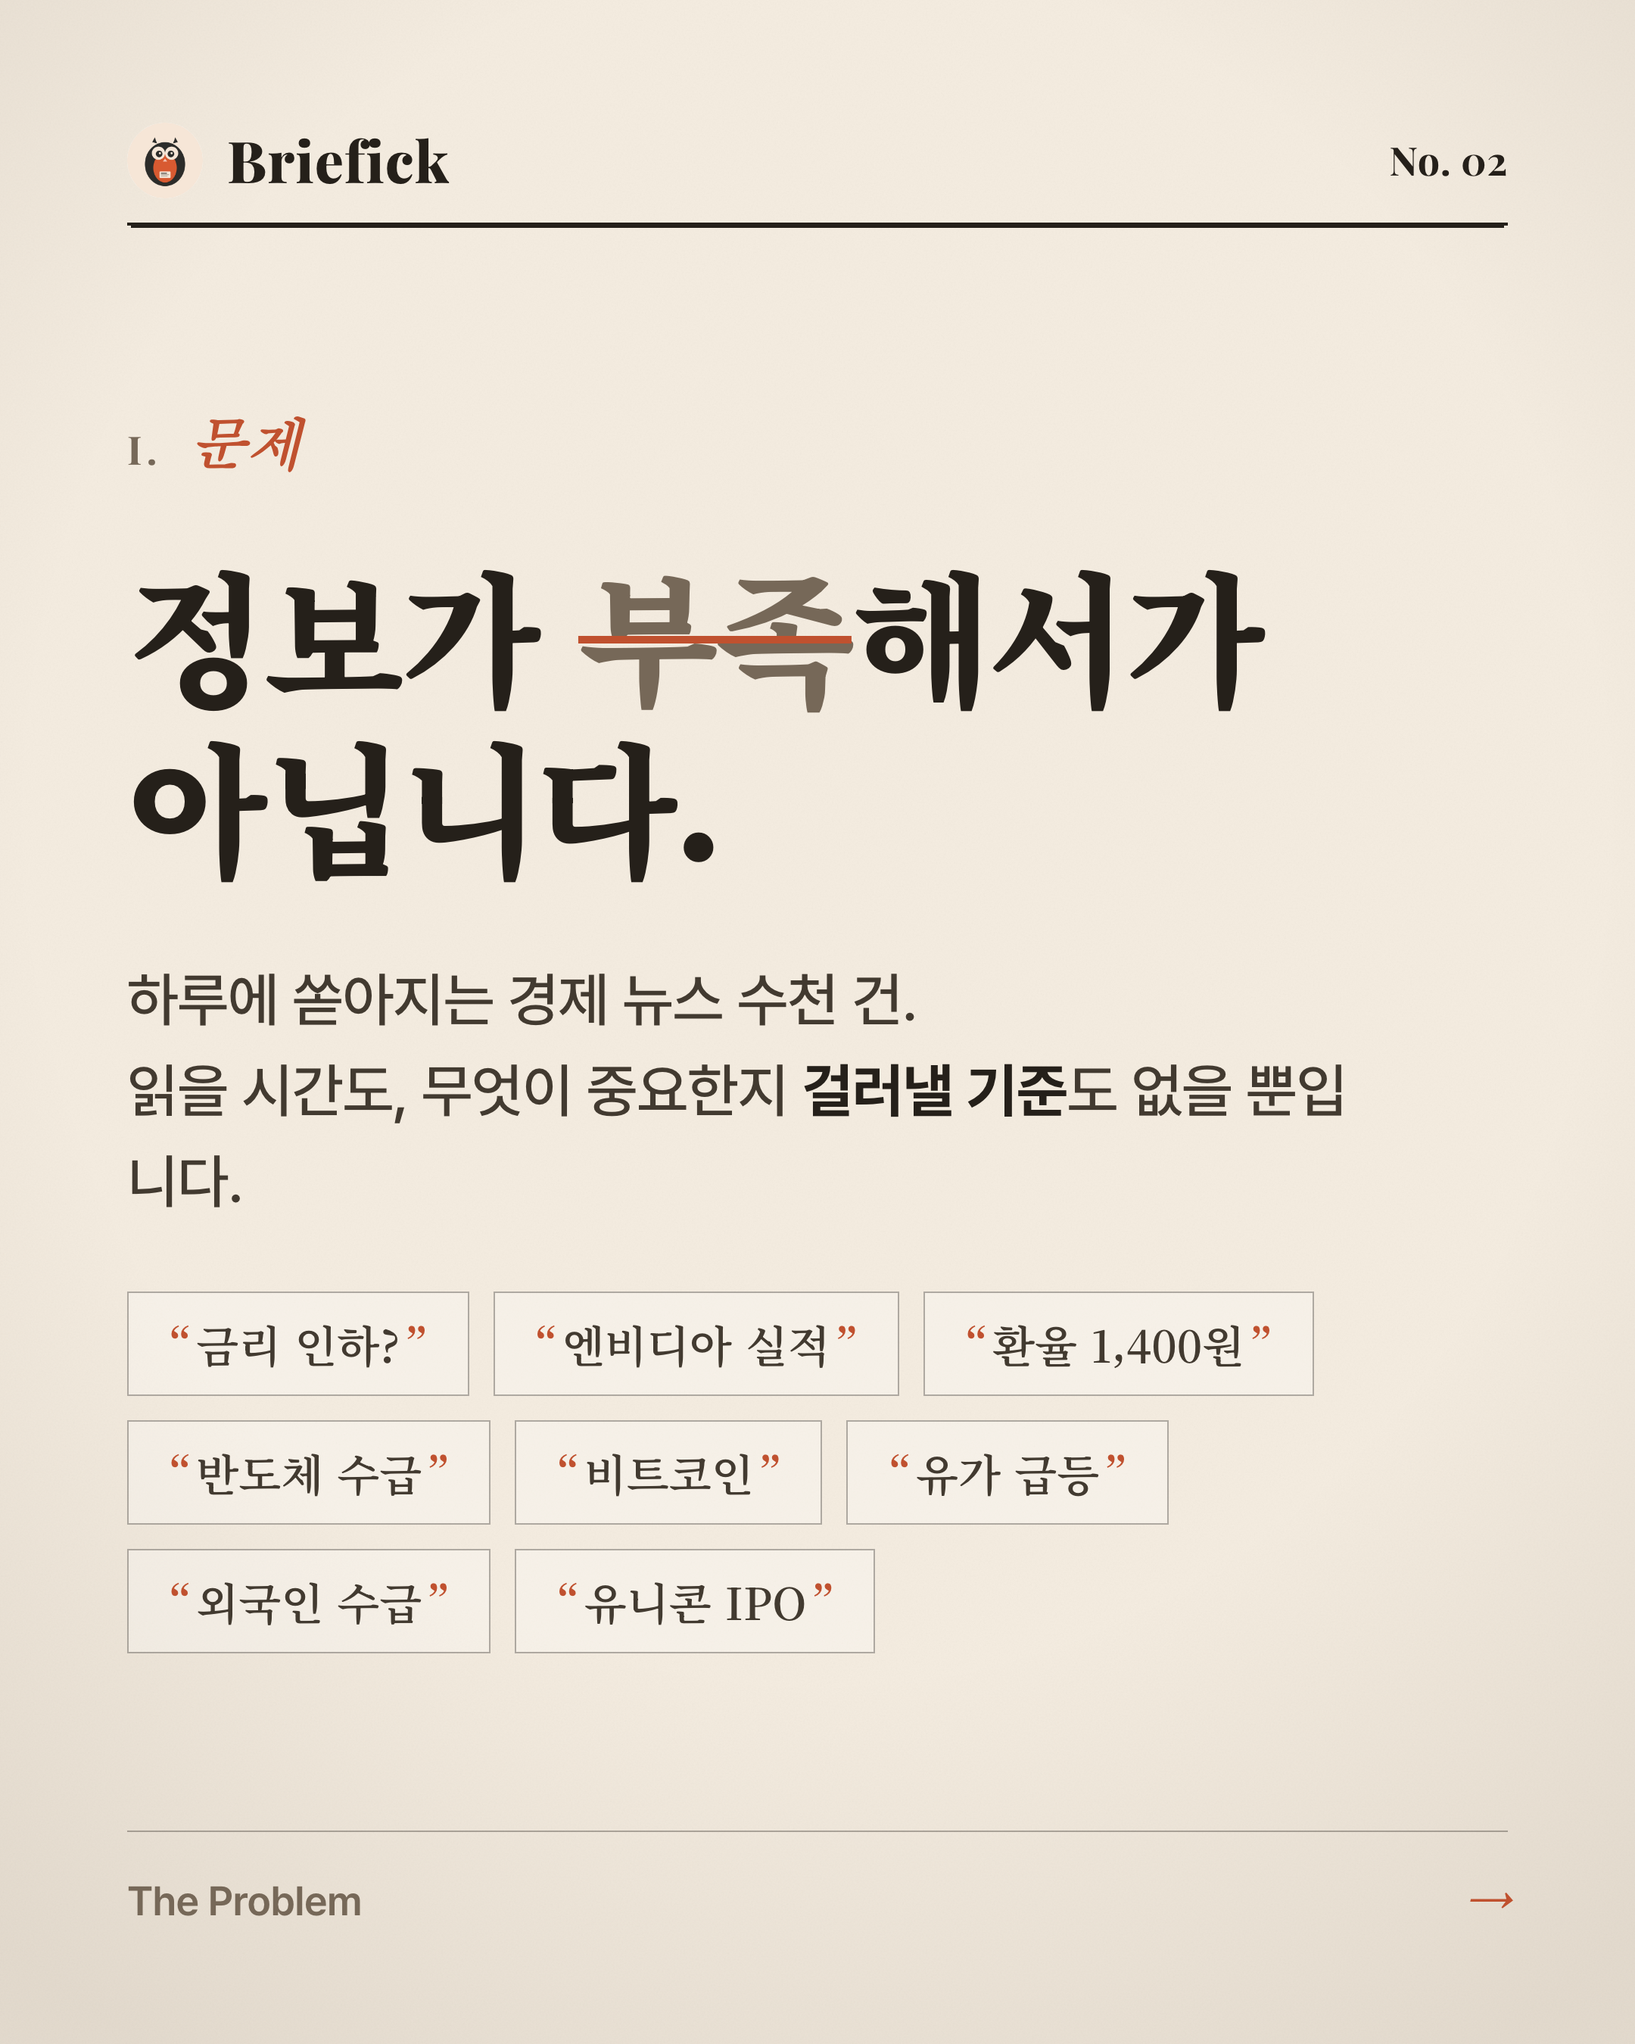
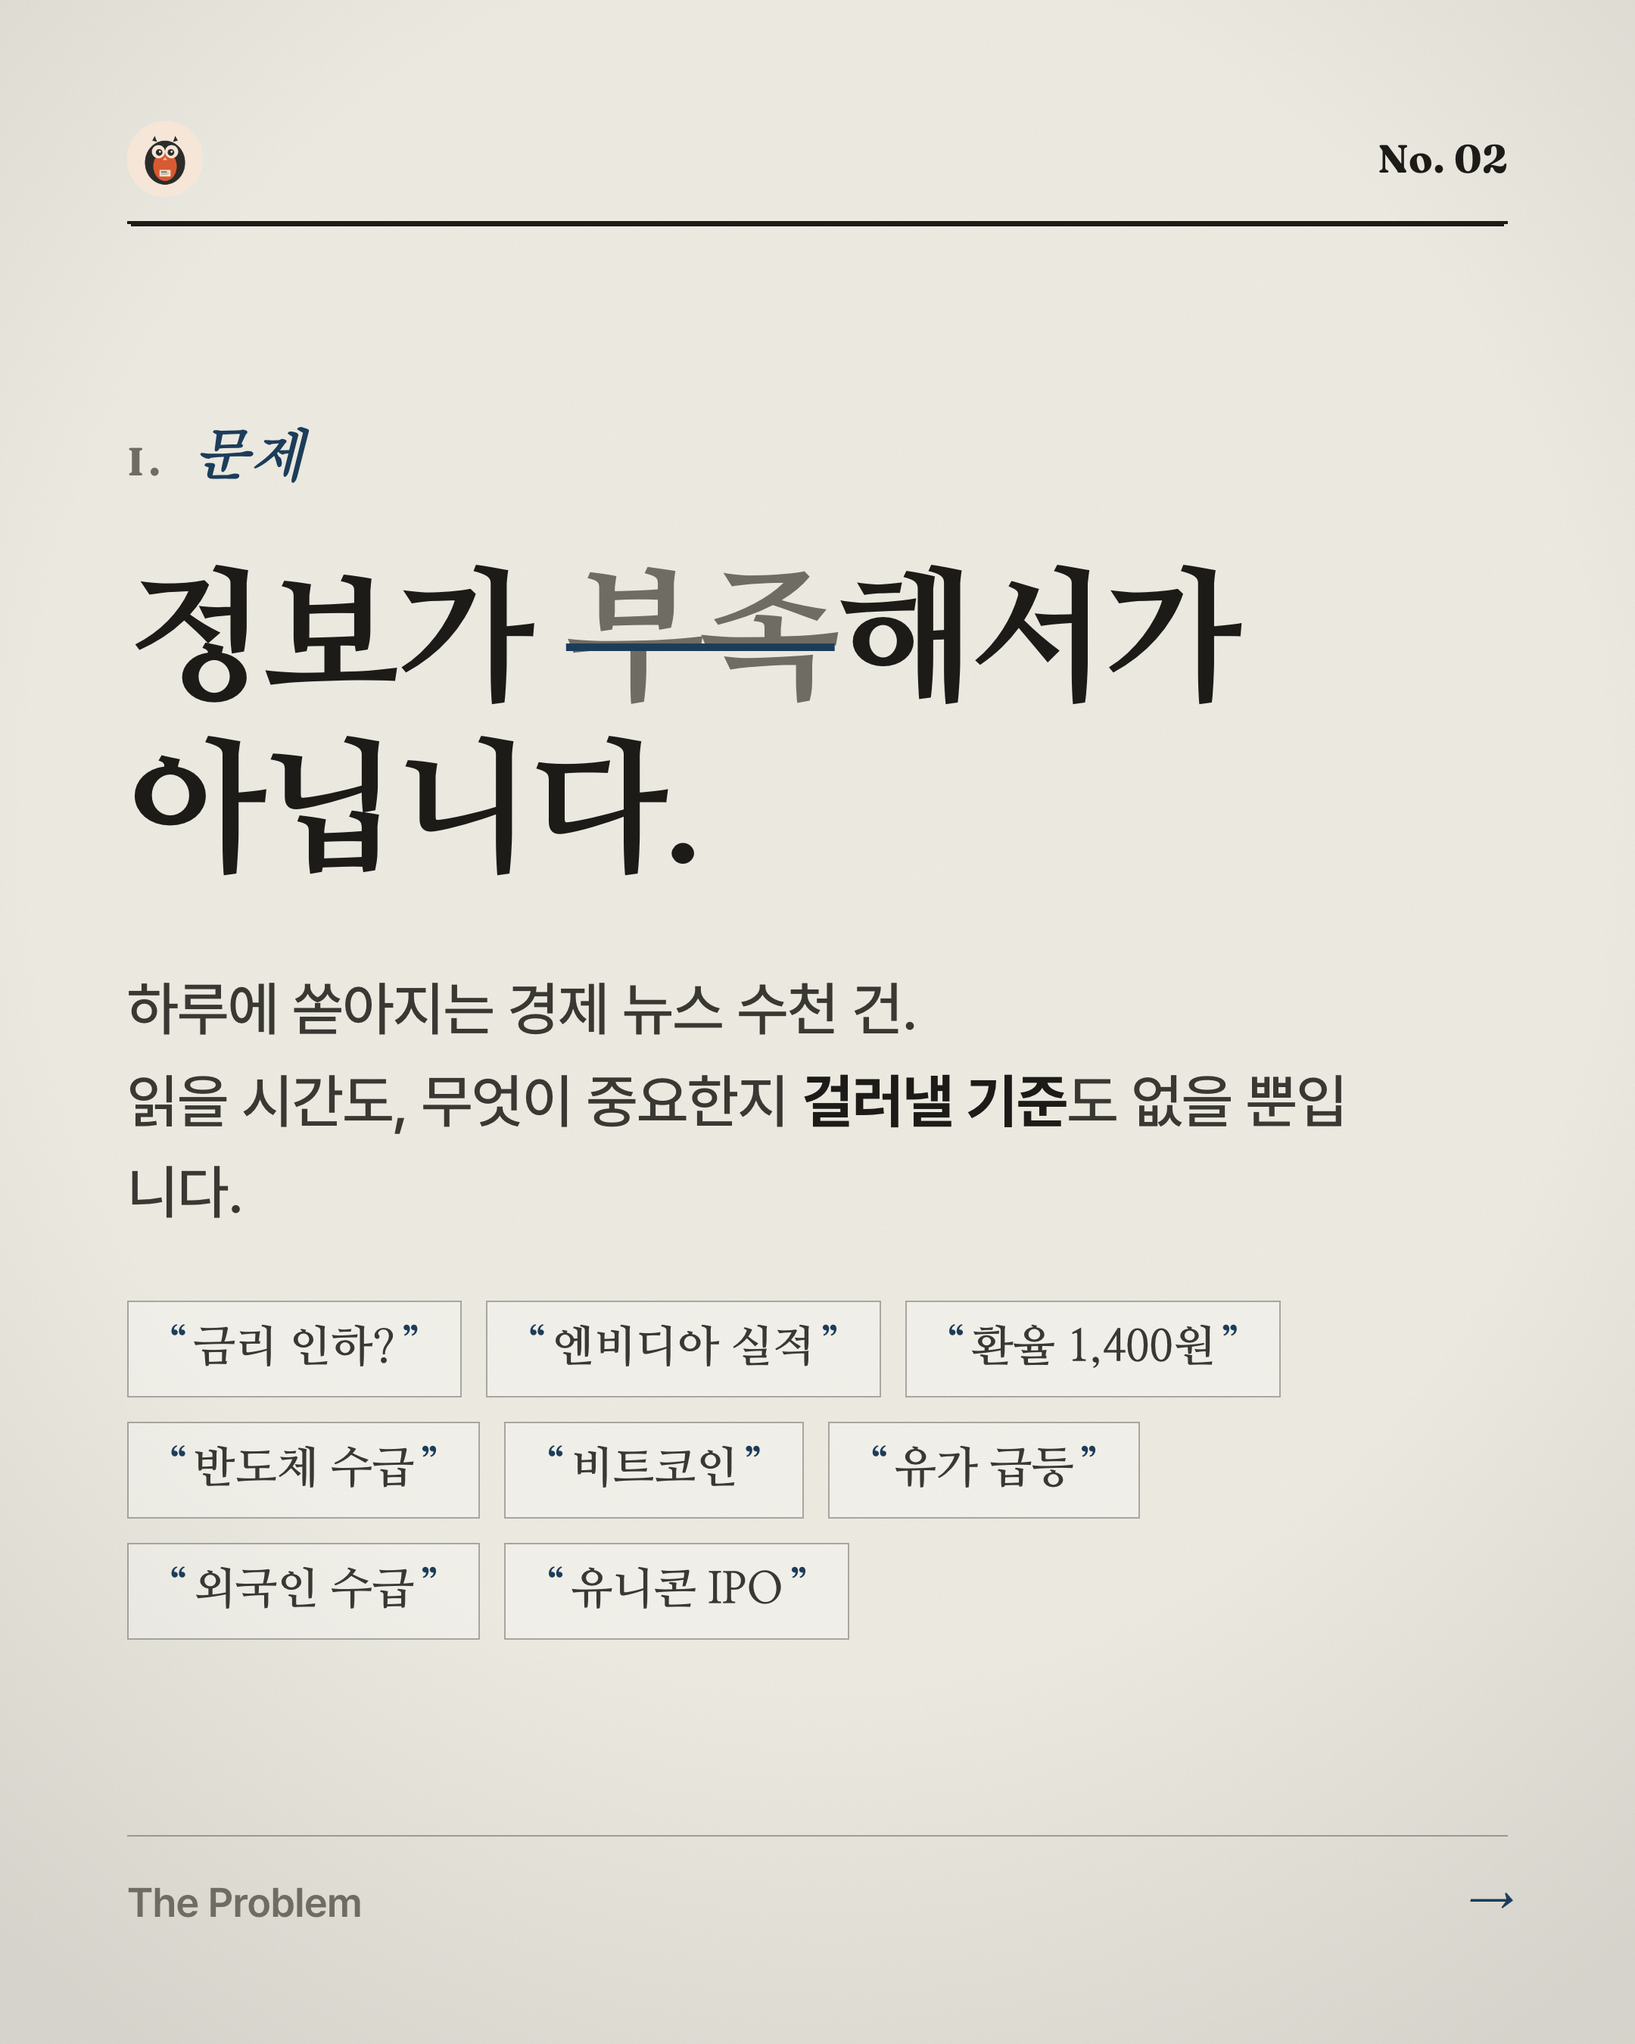
프로모 디자인 리톤 - 네이비+신문미색, 폰트 교체(Nanum Myeongjo/Fraunces), Briefick 워드 최소화
클로드 시그니처 오렌지/베이지 제거. 중간 페이지 워드마크 글자 삭제(올빼미만).

diff --git a/scripts/promo/template.html b/scripts/promo/template.html
@@ -5,19 +5,19 @@
 <title>Briefick Promo Carousel</title>
 <link rel="preconnect" href="https://fonts.googleapis.com">
 <link rel="preconnect" href="https://fonts.gstatic.com" crossorigin>
-<link href="https://fonts.googleapis.com/css2?family=Playfair+Display:ital,wght@0,600;0,700;0,800;0,900;1,500;1,600;1,700&family=Noto+Serif+KR:wght@500;600;700;900&display=swap" rel="stylesheet">
+<link href="https://fonts.googleapis.com/css2?family=Fraunces:ital,wght@0,400..900;1,400..700&family=Nanum+Myeongjo:wght@400;700;800&display=swap" rel="stylesheet">
 <link rel="stylesheet" as="style" crossorigin href="https://cdn.jsdelivr.net/gh/orioncactus/pretendard@v1.3.9/dist/web/static/pretendard.min.css" />
 <style>
   :root {
-    --paper:   #F4ECE0;
-    --paper2:  #EEE2CF;
-    --ink:     #25201A;
-    --ink2:    #423a30;
-    --ink-soft:#766858;
-    --terra:   #C0512F;
-    --terra-d: #9E3F22;
-    --rule:    rgba(37,32,26,0.16);
-    --rule-s:  rgba(37,32,26,0.34);
+    --paper:   #ECEAE1;
+    --paper2:  #E3E0D5;
+    --ink:     #1C1B18;
+    --ink2:    #3a3833;
+    --ink-soft:#6f6c63;
+    --accent:  #1C3D5A;   /* deep navy */
+    --accent-d:#142C42;
+    --rule:    rgba(28,27,24,0.16);
+    --rule-s:  rgba(28,27,24,0.34);
     --kk-up:   #d23b2e;
     --kk-dn:   #1763d6;
   }
@@ -30,8 +30,8 @@
     -webkit-font-smoothing: antialiased;
     -moz-osx-font-smoothing: grayscale;
   }
-  .serif { font-family: 'Noto Serif KR', 'Playfair Display', serif; }
-  .pf    { font-family: 'Playfair Display', serif; }
+  .serif { font-family: 'Nanum Myeongjo', 'Fraunces', serif; }
+  .pf    { font-family: 'Fraunces', serif; }
 
   .slide {
     width: 1080px; height: 1350px;
@@ -48,7 +48,7 @@
   }
   .slide::after {
     content: ""; position: absolute; inset: 0; pointer-events: none; z-index: 0;
-    background: radial-gradient(ellipse 80% 70% at 50% 40%, rgba(0,0,0,0) 60%, rgba(74,58,40,0.10) 100%);
+    background: radial-gradient(ellipse 80% 70% at 50% 40%, rgba(0,0,0,0) 60%, rgba(28,27,24,0.10) 100%);
   }
   .slide > * { position: relative; z-index: 1; }
 
@@ -62,19 +62,19 @@
   .mast .left { display: flex; align-items: center; gap: 16px; }
   .mast .owl { width: 50px; height: 50px; border-radius: 50%; display: block; }
   .mast .name {
-    font-family: 'Playfair Display', serif; font-weight: 800;
+    font-family: 'Fraunces', serif; font-weight: 800;
     font-size: 38px; letter-spacing: 0.5px; color: var(--ink);
   }
   .mast .right {
-    font-family: 'Playfair Display', serif; font-style: italic;
+    font-family: 'Fraunces', serif; font-style: italic;
     font-size: 26px; color: var(--ink-soft); letter-spacing: 0.3px;
   }
   .mast .pageno { font-style: normal; font-weight: 700; color: var(--ink); }
 
   /* ---- 매거진 키커 ---- */
   .kicker {
-    font-family: 'Playfair Display', serif; font-style: italic; font-weight: 600;
-    font-size: 38px; color: var(--terra); letter-spacing: 0.2px;
+    font-family: 'Fraunces', serif; font-style: italic; font-weight: 600;
+    font-size: 38px; color: var(--accent); letter-spacing: 0.2px;
     display: inline-flex; align-items: baseline; gap: 18px;
   }
   .kicker .no {
@@ -83,7 +83,7 @@
   }
 
   .center { flex: 1; display: flex; flex-direction: column; justify-content: center; }
-  .accent { color: var(--terra); }
+  .accent { color: var(--accent); }
   .body {
     font-size: 39px; font-weight: 500; color: var(--ink2); line-height: 1.55;
     letter-spacing: -0.4px; max-width: 820px;
@@ -95,12 +95,12 @@
     padding-top: 26px; border-top: 1px solid var(--rule-s);
     font-size: 27px; color: var(--ink-soft); font-weight: 600; letter-spacing: -0.3px;
   }
-  .footrule .turn { font-family: 'Playfair Display', serif; font-style: italic; color: var(--terra); }
+  .footrule .turn { font-family: 'Fraunces', serif; font-style: italic; color: var(--accent); }
 
   /* ============ SLIDE 1 — HOOK ============ */
   .s-hook .center { gap: 38px; }
   .s-hook .head {
-    font-family: 'Noto Serif KR', serif; font-weight: 900;
+    font-family: 'Nanum Myeongjo', serif; font-weight: 800;
     font-size: 116px; line-height: 1.12; letter-spacing: -3px; color: var(--ink);
   }
   .s-hook .kick {
@@ -112,53 +112,53 @@
   /* ============ SLIDE 2 — PROBLEM ============ */
   .s-prob .center { gap: 42px; }
   .s-prob .head {
-    font-family: 'Noto Serif KR', serif; font-weight: 900;
+    font-family: 'Nanum Myeongjo', serif; font-weight: 800;
     font-size: 96px; line-height: 1.18; letter-spacing: -2.5px; color: var(--ink);
   }
   .s-prob .head .strike {
     color: var(--ink-soft); text-decoration: line-through;
-    text-decoration-color: var(--terra); text-decoration-thickness: 5px;
+    text-decoration-color: var(--accent); text-decoration-thickness: 5px;
   }
   .clutter { display: flex; flex-wrap: wrap; gap: 16px; max-width: 900px; }
   .clutter .clip {
-    font-family: 'Noto Serif KR', serif; font-weight: 600;
+    font-family: 'Nanum Myeongjo', serif; font-weight: 600;
     font-size: 29px; color: var(--ink2);
     padding: 13px 26px; border: 1.5px solid var(--rule-s); background: rgba(255,255,255,0.28);
   }
-  .clutter .clip::before { content: "“"; color: var(--terra); margin-right: 4px; font-weight: 700; }
-  .clutter .clip::after  { content: "”"; color: var(--terra); margin-left: 4px;  font-weight: 700; }
+  .clutter .clip::before { content: "“"; color: var(--accent); margin-right: 4px; font-weight: 700; }
+  .clutter .clip::after  { content: "”"; color: var(--accent); margin-left: 4px;  font-weight: 700; }
 
   /* ============ SLIDE 3 — SOLUTION ============ */
   .s-sol .center { gap: 38px; }
   .s-sol .head {
-    font-family: 'Noto Serif KR', serif; font-weight: 900;
+    font-family: 'Nanum Myeongjo', serif; font-weight: 800;
     font-size: 100px; line-height: 1.14; letter-spacing: -2.8px; color: var(--ink);
   }
   .markets { display: flex; flex-wrap: wrap; gap: 14px; margin-top: 10px; }
   .markets .m {
-    font-family: 'Noto Serif KR', serif; font-weight: 700; font-size: 32px; color: var(--ink);
+    font-family: 'Nanum Myeongjo', serif; font-weight: 700; font-size: 32px; color: var(--ink);
     padding: 14px 30px; border: 1.5px solid var(--ink); background: rgba(255,255,255,0.32);
     display: inline-flex; align-items: center; gap: 12px;
   }
-  .markets .m .dot { width: 12px; height: 12px; border-radius: 50%; background: var(--terra); }
+  .markets .m .dot { width: 12px; height: 12px; border-radius: 50%; background: var(--accent); }
 
   /* ============ SLIDE 4 — PROOF (phone) ============ */
   .s-proof .title {
-    font-family: 'Noto Serif KR', serif; font-weight: 900;
+    font-family: 'Nanum Myeongjo', serif; font-weight: 800;
     font-size: 62px; letter-spacing: -1.6px; color: var(--ink); margin-top: 18px; line-height: 1.2;
   }
   .phonewrap { flex: 1; display: flex; align-items: stretch; justify-content: center; padding-top: 22px; }
   .phone {
     width: 812px; border-radius: 58px; padding: 16px;
-    background: linear-gradient(160deg, #3a342c, #211d18);
-    box-shadow: 0 40px 84px rgba(54,40,24,0.4), 0 0 0 2px rgba(37,32,26,0.12);
+    background: linear-gradient(160deg, #2c2d31, #161719);
+    box-shadow: 0 40px 84px rgba(20,28,40,0.32), 0 0 0 2px rgba(28,27,24,0.12);
     display: flex; flex-direction: column;
   }
   .phone-screen { background: #9bbbd4; border-radius: 44px; overflow: hidden; font-family: 'Pretendard', sans-serif; flex: 1; display: flex; flex-direction: column; }
   .kk-top { background: #9bbbd4; padding: 24px 30px 14px; display: flex; align-items: center; gap: 16px; }
   .kk-top .back { color: #2b2b2b; font-size: 30px; font-weight: 700; }
   .kk-top .name { color: #1a1a1a; font-size: 30px; font-weight: 700; letter-spacing: -0.5px; }
-  .kk-top .badge { width: 26px; height: 26px; background: var(--terra); border-radius: 50%; display: inline-flex; align-items:center; justify-content:center; color:#fff; font-size:16px; font-weight:800; }
+  .kk-top .badge { width: 26px; height: 26px; background: var(--accent); border-radius: 50%; display: inline-flex; align-items:center; justify-content:center; color:#fff; font-size:16px; font-weight:800; }
   .kk-body { background: #9bbbd4; padding: 6px 24px 26px; flex: 1; }
   .kk-date { text-align: center; font-size: 22px; color: rgba(0,0,0,0.45); font-weight: 600; margin: 8px 0 18px; }
   .kk-msgrow { display: flex; align-items: flex-start; gap: 16px; }
@@ -170,7 +170,7 @@
   .kk-sec .lbl { font-size: 24px; font-weight: 800; color: #111; letter-spacing: -0.4px; }
   .kk-sec ul { list-style: none; margin: 9px 0 0; }
   .kk-sec li { font-size: 21px; color: #333; line-height: 1.46; font-weight: 500; padding-left: 18px; position: relative; margin-bottom: 5px; }
-  .kk-sec li::before { content: "•"; position: absolute; left: 0; color: var(--terra); }
+  .kk-sec li::before { content: "•"; position: absolute; left: 0; color: var(--accent); }
   .kk-sec li .up { color: var(--kk-up); font-weight: 700; }
   .kk-sec li .dn { color: var(--kk-dn); font-weight: 700; }
   /* "아래로 더 이어짐" 암시 — 세로 점 + 흐려지는 마감 */
@@ -182,31 +182,31 @@
 
   /* ============ SLIDE 5 — WHY ============ */
   .s-why .title {
-    font-family: 'Noto Serif KR', serif; font-weight: 900;
+    font-family: 'Nanum Myeongjo', serif; font-weight: 800;
     font-size: 76px; letter-spacing: -2px; line-height: 1.16; color: var(--ink); margin-top: 16px;
   }
   .feats { margin-top: 54px; display: flex; flex-direction: column; }
   .feat { display: flex; align-items: flex-start; gap: 32px; padding: 30px 0; border-top: 1px solid var(--rule); }
   .feat:first-child { border-top: 1.5px solid var(--rule-s); }
   .feat .no {
-    font-family: 'Playfair Display', serif; font-weight: 800; font-size: 60px;
-    color: var(--terra); line-height: 1; flex-shrink: 0; width: 96px;
+    font-family: 'Fraunces', serif; font-weight: 800; font-size: 60px;
+    color: var(--accent); line-height: 1; flex-shrink: 0; width: 96px;
   }
   .feat .ft { display: flex; flex-direction: column; gap: 8px; padding-top: 4px; }
-  .feat .ft .h { font-family: 'Noto Serif KR', serif; font-size: 40px; font-weight: 700; color: var(--ink); letter-spacing: -0.8px; }
+  .feat .ft .h { font-family: 'Nanum Myeongjo', serif; font-size: 40px; font-weight: 700; color: var(--ink); letter-spacing: -0.8px; }
   .feat .ft .d { font-size: 29px; font-weight: 500; color: var(--ink2); letter-spacing: -0.4px; line-height: 1.45; }
 
   /* ============ SLIDE 6 — CTA ============ */
   .s-cta .center { gap: 34px; }
   .s-cta .head {
-    font-family: 'Noto Serif KR', serif; font-weight: 900;
+    font-family: 'Nanum Myeongjo', serif; font-weight: 800;
     font-size: 104px; line-height: 1.12; letter-spacing: -2.8px; color: var(--ink);
   }
   .stamp {
     align-self: flex-start; margin-top: 6px;
-    font-family: 'Noto Serif KR', serif; font-weight: 700; font-size: 34px;
-    color: var(--terra); letter-spacing: 1px;
-    padding: 16px 34px; border: 3px double var(--terra);
+    font-family: 'Nanum Myeongjo', serif; font-weight: 700; font-size: 34px;
+    color: var(--accent); letter-spacing: 1px;
+    padding: 16px 34px; border: 3px double var(--accent);
     display: inline-flex; align-items: center; gap: 14px;
     background: rgba(192,81,47,0.06);
     transform: rotate(-2deg);
@@ -216,8 +216,8 @@
     padding-top: 36px; border-top: 2px solid var(--ink);
     box-shadow: 0 4px 0 -2.5px var(--ink);
   }
-  .ctafoot .dom { font-family: 'Playfair Display', serif; font-weight: 800; font-size: 48px; letter-spacing: 0px; color: var(--ink); }
-  .ctafoot .sep { width: 7px; height: 7px; border-radius: 50%; background: var(--terra); }
+  .ctafoot .dom { font-family: 'Fraunces', serif; font-weight: 800; font-size: 48px; letter-spacing: 0px; color: var(--ink); }
+  .ctafoot .sep { width: 7px; height: 7px; border-radius: 50%; background: var(--accent); }
   .ctafoot .ig { font-size: 34px; font-weight: 600; color: var(--ink-soft); letter-spacing: -0.4px; }
 </style>
 </head>
@@ -240,7 +240,7 @@
 <!-- ===================== SLIDE 2 — PROBLEM ===================== -->
 <div class="slide s-prob" data-slide="2">
   <div class="mast">
-    <div class="left"><img class="owl" data-owl src="" alt=""><span class="name">Briefick</span></div>
+    <div class="left"><img class="owl" data-owl src="" alt=""></div>
     <div class="right"><span class="pageno">No. 02</span></div>
   </div>
   <div class="center">
@@ -264,7 +264,7 @@
 <!-- ===================== SLIDE 3 — SOLUTION ===================== -->
 <div class="slide s-sol" data-slide="3">
   <div class="mast">
-    <div class="left"><img class="owl" data-owl src="" alt=""><span class="name">Briefick</span></div>
+    <div class="left"><img class="owl" data-owl src="" alt=""></div>
     <div class="right"><span class="pageno">No. 03</span></div>
   </div>
   <div class="center">
@@ -286,7 +286,7 @@
 <!-- ===================== SLIDE 4 — PROOF (phone) ===================== -->
 <div class="slide s-proof" data-slide="4">
   <div class="mast">
-    <div class="left"><img class="owl" data-owl src="" alt=""><span class="name">Briefick</span></div>
+    <div class="left"><img class="owl" data-owl src="" alt=""></div>
     <div class="right"><span class="pageno">No. 04</span></div>
   </div>
   <div class="kicker" style="margin-top:30px"><span class="no">III.</span> 매일 아침 8시</div>
@@ -348,7 +348,7 @@
 <!-- ===================== SLIDE 5 — WHY ===================== -->
 <div class="slide s-why" data-slide="5">
   <div class="mast">
-    <div class="left"><img class="owl" data-owl src="" alt=""><span class="name">Briefick</span></div>
+    <div class="left"><img class="owl" data-owl src="" alt=""></div>
     <div class="right"><span class="pageno">No. 05</span></div>
   </div>
   <div class="kicker" style="margin-top:30px"><span class="no">IV.</span> 왜 브리픽인가</div>
@@ -364,7 +364,7 @@
 <!-- ===================== SLIDE 6 — CTA ===================== -->
 <div class="slide s-cta" data-slide="6">
   <div class="mast">
-    <div class="left"><img class="owl" data-owl src="" alt=""><span class="name">Briefick</span></div>
+    <div class="left"><img class="owl" data-owl src="" alt=""></div>
     <div class="right">Subscribe · <span class="pageno">No. 06</span></div>
   </div>
   <div class="center">
